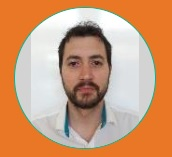
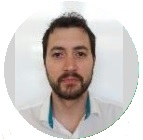
Actualización con estilos.css

diff --git a/estilos.css b/estilos.css
@@ -1,0 +1,160 @@
+body{
+    background-color: rgb(215, 245, 245);
+}
+header{ 
+    display: flex;  
+    justify-content: space-evenly;  
+    border: solid black 3px;
+    background-color: rgb(0, 67, 112);
+    height: 55px;
+    margin-left: auto;
+    margin-right: auto;
+    margin-top: 20px;
+    margin-bottom: 20px;
+    width: 660px;
+        
+}
+
+h1 {
+    color:white;
+    padding-bottom: 10px
+        
+}
+
+span{
+   color: rgb(1, 1, 114);
+   font-style: italic;
+   box-shadow: 1px 1px 1px 1px rgba(0,0,0,0.5);
+   border-radius: 5%;
+   padding: 1px
+   
+}
+
+h2 {    color:white;
+    border: solid black 3px;
+    background-color: rgb(0, 67, 112);
+    margin-left: auto;
+    margin-right: auto;
+    margin bottom: 20px;
+    width: 620px;
+
+}
+
+#foto{
+    border-radius: 50%;
+    display: flex;
+    width: 150px;
+    height: 140px;
+    margin: 20px 30px 20px;
+    border: solid   white 2px;
+    box-shadow: 5px 5px 5px rgba(0,0,0,0.5);
+    }
+
+#datos {    
+    background-color: rgba(0, 67, 112, 0.2);
+    border: solid white 1px;
+    padding:20px;
+    border-radius: 5px;
+    box-shadow: 5px 5px 5px rgba(0,0,0,0.5);
+    width: 280px
+    
+    
+}
+
+.datosout {
+    display: flex;
+    margin-left: auto;
+    margin-right: auto;
+    width: 600px;   
+}
+
+#datos1 {  
+    background-color: rgba(0, 67, 112, 0.3);
+    border: solid white 1px;
+    border-radius: 5px;
+    box-shadow: 5px 5px 5px rgba(0,0,0,0.5);
+    margin-left: auto;
+    margin-right: auto;
+    padding-left: 20px;
+    width: 580px;
+
+}
+
+.trabajo1 {    
+     display: flex;
+     background-color: rgba(0, 67, 112, 0.4);
+     border: solid white 1px;
+     border-radius: 5px;
+     box-shadow: 5px 5px 5px rgba(0,0,0,0.5);
+     width: 600px;
+     margin-left: auto;
+    margin-right: auto;
+     margin-bottom: 50px;
+
+
+}
+
+.trabajo2 {    
+    display: flex;
+     background-color: rgba(0, 67, 112, 0.4);
+     border: solid white 1px;
+     border-radius: 5px;
+     box-shadow: 5px 5px 5px rgba(0,0,0,0.5);
+     width: 600px;
+     margin-left: auto;
+     margin-right: auto;
+     margin-bottom: 50px;
+
+}
+
+.intrabajo {  
+    
+    padding: 30px;
+    background-color: rgba(0, 67, 112, 0.4);
+    display: flex;
+    flex-direction: column;
+    flex-wrap: wrap;
+    width: 500px;
+    border: solid white 1px;
+    padding:10px;
+}
+
+.fotolab {  
+    background-color: white;
+    display: flex;
+    flex-direction: column;
+    align-items: center;
+    justify-content: center;
+    height:100%;
+    width:150px;
+    margin-right: 10px;
+    margin-left: 10px;
+    margin-top: 140px;
+    border-radius: 3%;
+    box-shadow: 1px 1px 1px 1px rgba(0,0,0,0.5);
+    padding: 5px;
+
+    }
+
+.fotolab1 {  
+        background-color: white;
+        display: flex;
+        flex-direction: column;
+        align-items: center;
+        justify-content: center;
+        height:100%;
+        width:130px;
+        margin-right: 36px;
+        margin-top: px;
+        border-radius: 5%;
+        box-shadow: 1px 1px 1px 1px rgba(0,0,0,0.5);
+        margin-right: 25px;
+        margin-left: 25px;
+        margin-top: 33px;
+            
+        }
+
+li{
+    list-style: none;
+}
+    

diff --git a/index.html b/index.html
@@ -4,44 +4,83 @@
     <meta charset="UTF-8">
     <meta name="viewport" content="width=device-width, initial-scale=1.0">
     <meta http-equiv="X-UA-Compatible" content="ie=edge">
-    <title>Document</title>
+    <link rel="stylesheet" href="/estilos.css">
+    <title>CV</title>
 </head>
 <body>
-    <h1>Sebastian Caballero</h1>
 
+<header>
+    <h1>Sebastian Caballero</h1>
+</header>
+
+<section> 
     <h2>Datos Personales</h2>
 
-    <!--<img src="/proyectoWeb/assets/images/CV.jpg" alt="Foto CV" >-->
-    <picture>
-        <source srcset="/proyectoWeb/assets/images/CV.jpg">
-            <img src="/proyectoWeb/assets/images/CV.jpg" alt="Foto CV">
-    </picture>
+<div class="datosout">
+    <img id="foto" src="/assets/images/CV.jpg" alt="Foto CV">
     
-    <ul>
-        <li>Fecha de Nacimiento: 26/11/1984</li>
-        <li>Domicilio: Lobos 91 Wilde</li>
-        <li>Teléfono: 1131866717</li>
-        <li>Mail: sacaballero@hipotecario.com.ar</li>
-    </ul>
+    <div id="datos">
+        <p><span>Fecha de Nacimiento:</span>  26/11/1984</p>
+        <p><span>Domicilio:</span> Lobos 91 (Wilde)</p>
+        <p><span>Teléfono:</span> 1131866717</p>
+        <p><span>Mail:</span> sacaballero@hipotecario.com.ar</p>
+    </div>
+</div>
 
-    <h2>Estudios</h2>
+    <h2>Estudios</h2>   
 
-    <dl>
-        <dt>Secundario</dt>   
-        <dd>Perito Mercantil en Instituto Zaccarias</dd>
-        <dt>Terciario</dt>
-        <dd>Técnico Superior en Liderazgo Ontológico en ICP</dd>
-    </dl>
+    <div id="datos1">
+    
+        <p><span>Secundario</span></p>   
+        <p>Perito Mercantil en Instituto Zaccarias</p>
+        <p><span>Terciario</span></p>
+        <p>Técnico Superior en Liderazgo Ontológico en ICP</p>
+    
+    </div>
 
     <h2>Experiencia Laboral</h2>
 
-    <dl>
-        <dt>2015 a la actualidad</dt>
-        <dd>Banco Hipotecario</dd>
-        <dt>2014 al 2015</dt>
-        <dd>IKE Asistencia Argentina</dd>
+    <div class="trabajo1">
 
-    </dl>
+        <img class="fotolab" src="/assets/images/500px-Logo_Banco_Hipotecario.svg.png" alt="BH">
+       <div class="intrabajo"> 
+        <h4>Banco Hipotecario - 2022 a hoy</h4>
+            <p>Analista QA</p>
+    
+        <h4>Banco Hipotecario - 2016 a 2022</h4>
+            <p>Oficial de Negocios en Sucursal Lanús, Avellaneda y Almagro</p>
+   
+        <h4>Banco Hipotecario - 2015 a 2016</h4>
+            <p>Asesoramiento Procrear</p>
+        </div>
+    </div>
+
+    <div class="trabajo2">
+        <img class="fotolab1" src="/assets/images/Dar-de-Baja-Ike-Asistencia-Argentina.webp.crdownload" alt="IKE">
+        
+        <div class="intrabajo">         
+        <h4>IKE Asistencia - 2015 a 2016</h4>
+            <p>Venta de paquete de asistencias</p>
+        </div>    
+        
+    </div>
+
+
+
+</section>
+
+<footer>
+        <h2>Mis Redes Sociales</h2>
+
+        <div id="datos1">
+            <p>Facebook</p>
+            <p>Youtube</p>
+            <p>Twitter</p>
+            <p>Instagram</p>
+        </div>
+    
+
+</footer>
 
 
 

diff --git a/styles.css b/styles.css
@@ -1,0 +1,64 @@
+
+
+/* 
+
+SELECTORES SIMPLES
+    1) Elementales
+        Universal -> * (selecciona todo)
+        Etiqueta -> Nobre de la etiqueta (h1, h2, p)
+
+    2) de atributo
+        ID -> id del elemento (#nombre del ID)
+        class -> clase del elemento (.nombre del class)
+        otros atributos -> [atributo]       ([href, lang])
+                           [atributo=valor] 
+                           [atributo^=valor] ^empieza con el valor
+                           [atributo*=valor] *coincide con el valor
+                           [atributo$=valor] $termina con el valor
+                           [atributo|valor] |incluye -
+SELECTORES COMPLEJOS
+    1) Agrupados
+        selectores simples más (,)
+        .class1,
+        .class2,
+        .class3{ propiedad=valor;
+        }
+    2) Combinadores
+        descendiente -> selección dentro de una etiqueta (hijos)    
+            div .class{
+            }
+        hermanos -> al mismo nivel
+            .class + .class (hermano que esté inmediatamente después)
+            .class ~ .class (todos los hermanos que estén después)
+        hijo directo -> sólo los que están en el siguiente nivel (no nietos)
+            .class > .class
+    3) Pseudoclases-Pseudoelementos
+
+ESPECIFICIDAD Y CASCADA
+            Etiquetas y pseudoelementos         001
+            Clases, atributos y pseudoclases    010
+            Ids                                 100
+            Estilos de línea                   1000
+            !important GANA A TODO
+            Cascada -> Funciona siempre que la especificidad sobre el elemento sea la misma
+        CSS Specificity Graph Generator (web para ver si la especificidad está bien)
+
+HERENCIA
+    Capacidad de heredar propiedades los elementos (ej color, tamaño de fuente se hereda, los enlaces no heredan)
+            Para forzar a que hereden propiedades 
+                .class {
+                    color: inherit
+                }
+            Para que no hereden estilos
+                .class{
+                    color: initial
+                }
+
+ESTILOS
+    Inspeccionar (F12)
+    Resetear estilos de navegador (en google escribir "normalize")
+        Descargar el archivo y asociarlo en HTML antes de "estilos.css"
+
+Instalar "prepros" para incluir propiedades no incorporadas en todos los navegadores aún
+
+*/
